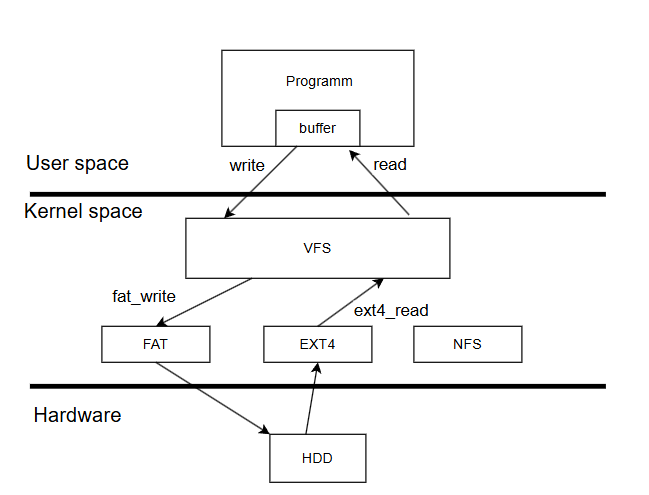
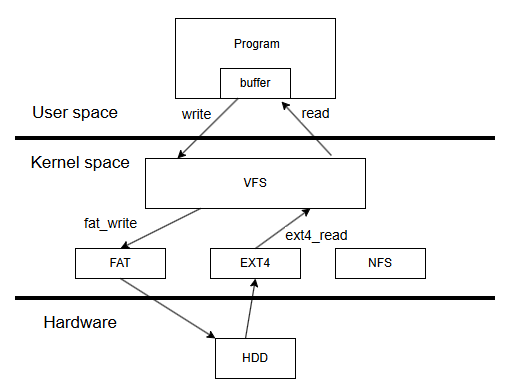
Update png images

Changed region(s): [[0.0305, 0.0918, 0.9448, 0.9796], [0.6095, 0.0306, 0.64, 0.0612]]

diff --git a/2024-2025/files/binary.c b/2024-2025/files/binary.c
@@ -31,8 +31,8 @@ int main(int argc, char *argv[]) {
         // заполним случайно
         array[i].value = rand();
         sprintf(array[i].str, "%d", rand());
-
-        fwrite(&array[i], sizeof(struct some_data), 1, file); // запись по одной структуре за раз
+        // Запись по одной структуре за раз
+        fwrite(&array[i], sizeof(struct some_data), 1, file); 
         
         printf("[%d] value %d str %s\n", i, array[i].value, array[i].str);
     }
@@ -49,7 +49,7 @@ int main(int argc, char *argv[]) {
     }
     printf("Reading from binary file..\n");
     // читаем одной строкой из бинарного файла N раз sizeof(struct some_data)
-    fread(array, sizeof(struct some_data), N, file); // запись по одной структуре за раз
+    fread(array, sizeof(struct some_data), N, file);
     
     printf("[%d] value %d str %s\n", 0, array[0].value, array[0].str);
 

diff --git a/2024-2025/files/files.md b/2024-2025/files/files.md
@@ -25,14 +25,16 @@
 
 ##  1. <a name='files'></a>Файлы
 
-Прежде чем пойдем к файлам важно понять про строение и работу ОС    
+Прежде чем пойдем к файлам неплохо будет копнуть глубже и понять пару вещей про ОС
 
 ##  2. <a name='KernelSpaceUserSpace'></a>Kernel Space и User Space
 
 ![alt text](img/rings.png)     
-https://ru.wikipedia.org/wiki/%D0%9A%D0%BE%D0%BB%D1%8C%D1%86%D0%B0_%D0%B7%D0%B0%D1%89%D0%B8%D1%82%D1%8B     
 
-В ОС есть разделение на области (кольца), в каждом из которых есть свой уровень привилегий для исполняемых программ. Самое внешнее кольцо - менее привилегированное, самое внутреннее наоборот. Самый высокий уровень привилегий у ядра. Реализуется в процессорах (процессор понимает с каким уровнем запускается программа)    
+Кольца защиты — архитектура информационной безопасности и функциональной отказоустойчивости, реализующая аппаратное разделение системного и пользовательского уровней привилегий.    
+https://en.wikipedia.org/wiki/Protection_ring      
+
+В ОС есть разделение на области (кольца), в каждом из которых есть свой уровень привилегий для исполняемых программ. Самое внешнее кольцо - менее привилегированное, самое внутреннее наоборот. Самый высокий уровень привилегий у ядра. Реализуется в процессорах и ОС (процессор понимает с каким уровнем работает благодаря разным режимам)    
     
 **Ядро́ (англ. kernel) ОС** — это центральная часть ОС, которая управляет основными ресурсами компьютера, такими как процессор, память и устройства ввода-вывода. Можно представить его как "посредника" между аппаратным обеспечением (железо) и программами, который обеспечивает их взаимодействие. Ядро отвечает за выполнение задач, таких как запуск программ, управление памятью, обработка запросов от устройств и многое другое.   
 
@@ -58,7 +60,7 @@ https://ru.wikipedia.org/wiki/%D0%9A%D0%BE%D0%BB%D1%8C%D1%86%D0%B0_%D0%B7%D0%B0%
 
 Важно понимать про системные вызовы:    
 - Если мы захотим что-либо сделать с железом, например, записать в файл на жесткий диск, то мы должны это сделать через системный вызов, т.к. наша программа будет выполняться в user space и не имеет привилегий доступа к жесткому диску.         
-- При исполнении системного вызова происходит переключение контекста - это процесс, при котором ОС меняет состояние выполнения программы с пользовательского уровня на уровень ядра или наоборот. Переключение контекста не самая быстрая вещь и по возможности ее стоит избегать для ускорения выполнения программ на CPU.    
+- При исполнении системного вызова происходит переключение контекста - это процесс, при котором ОС меняет состояние выполнения программы с пользовательского уровня на уровень ядра или наоборот. Переключение контекста не самая быстрая вещь, особоенно если очень часто происходят, и по возможности кол-во системных вызовов стоит уменьшать для ускорения выполнения программ на CPU.    
 - Системные вызовы - API ядра, т.е. это интерфейс из функций, позволяющий userland программам работать например с тем же железом (записать что-либо на HDD).
 
 ##  3. <a name='FILEIO'></a>Файловый ввод/вывод (FILE I/O)
